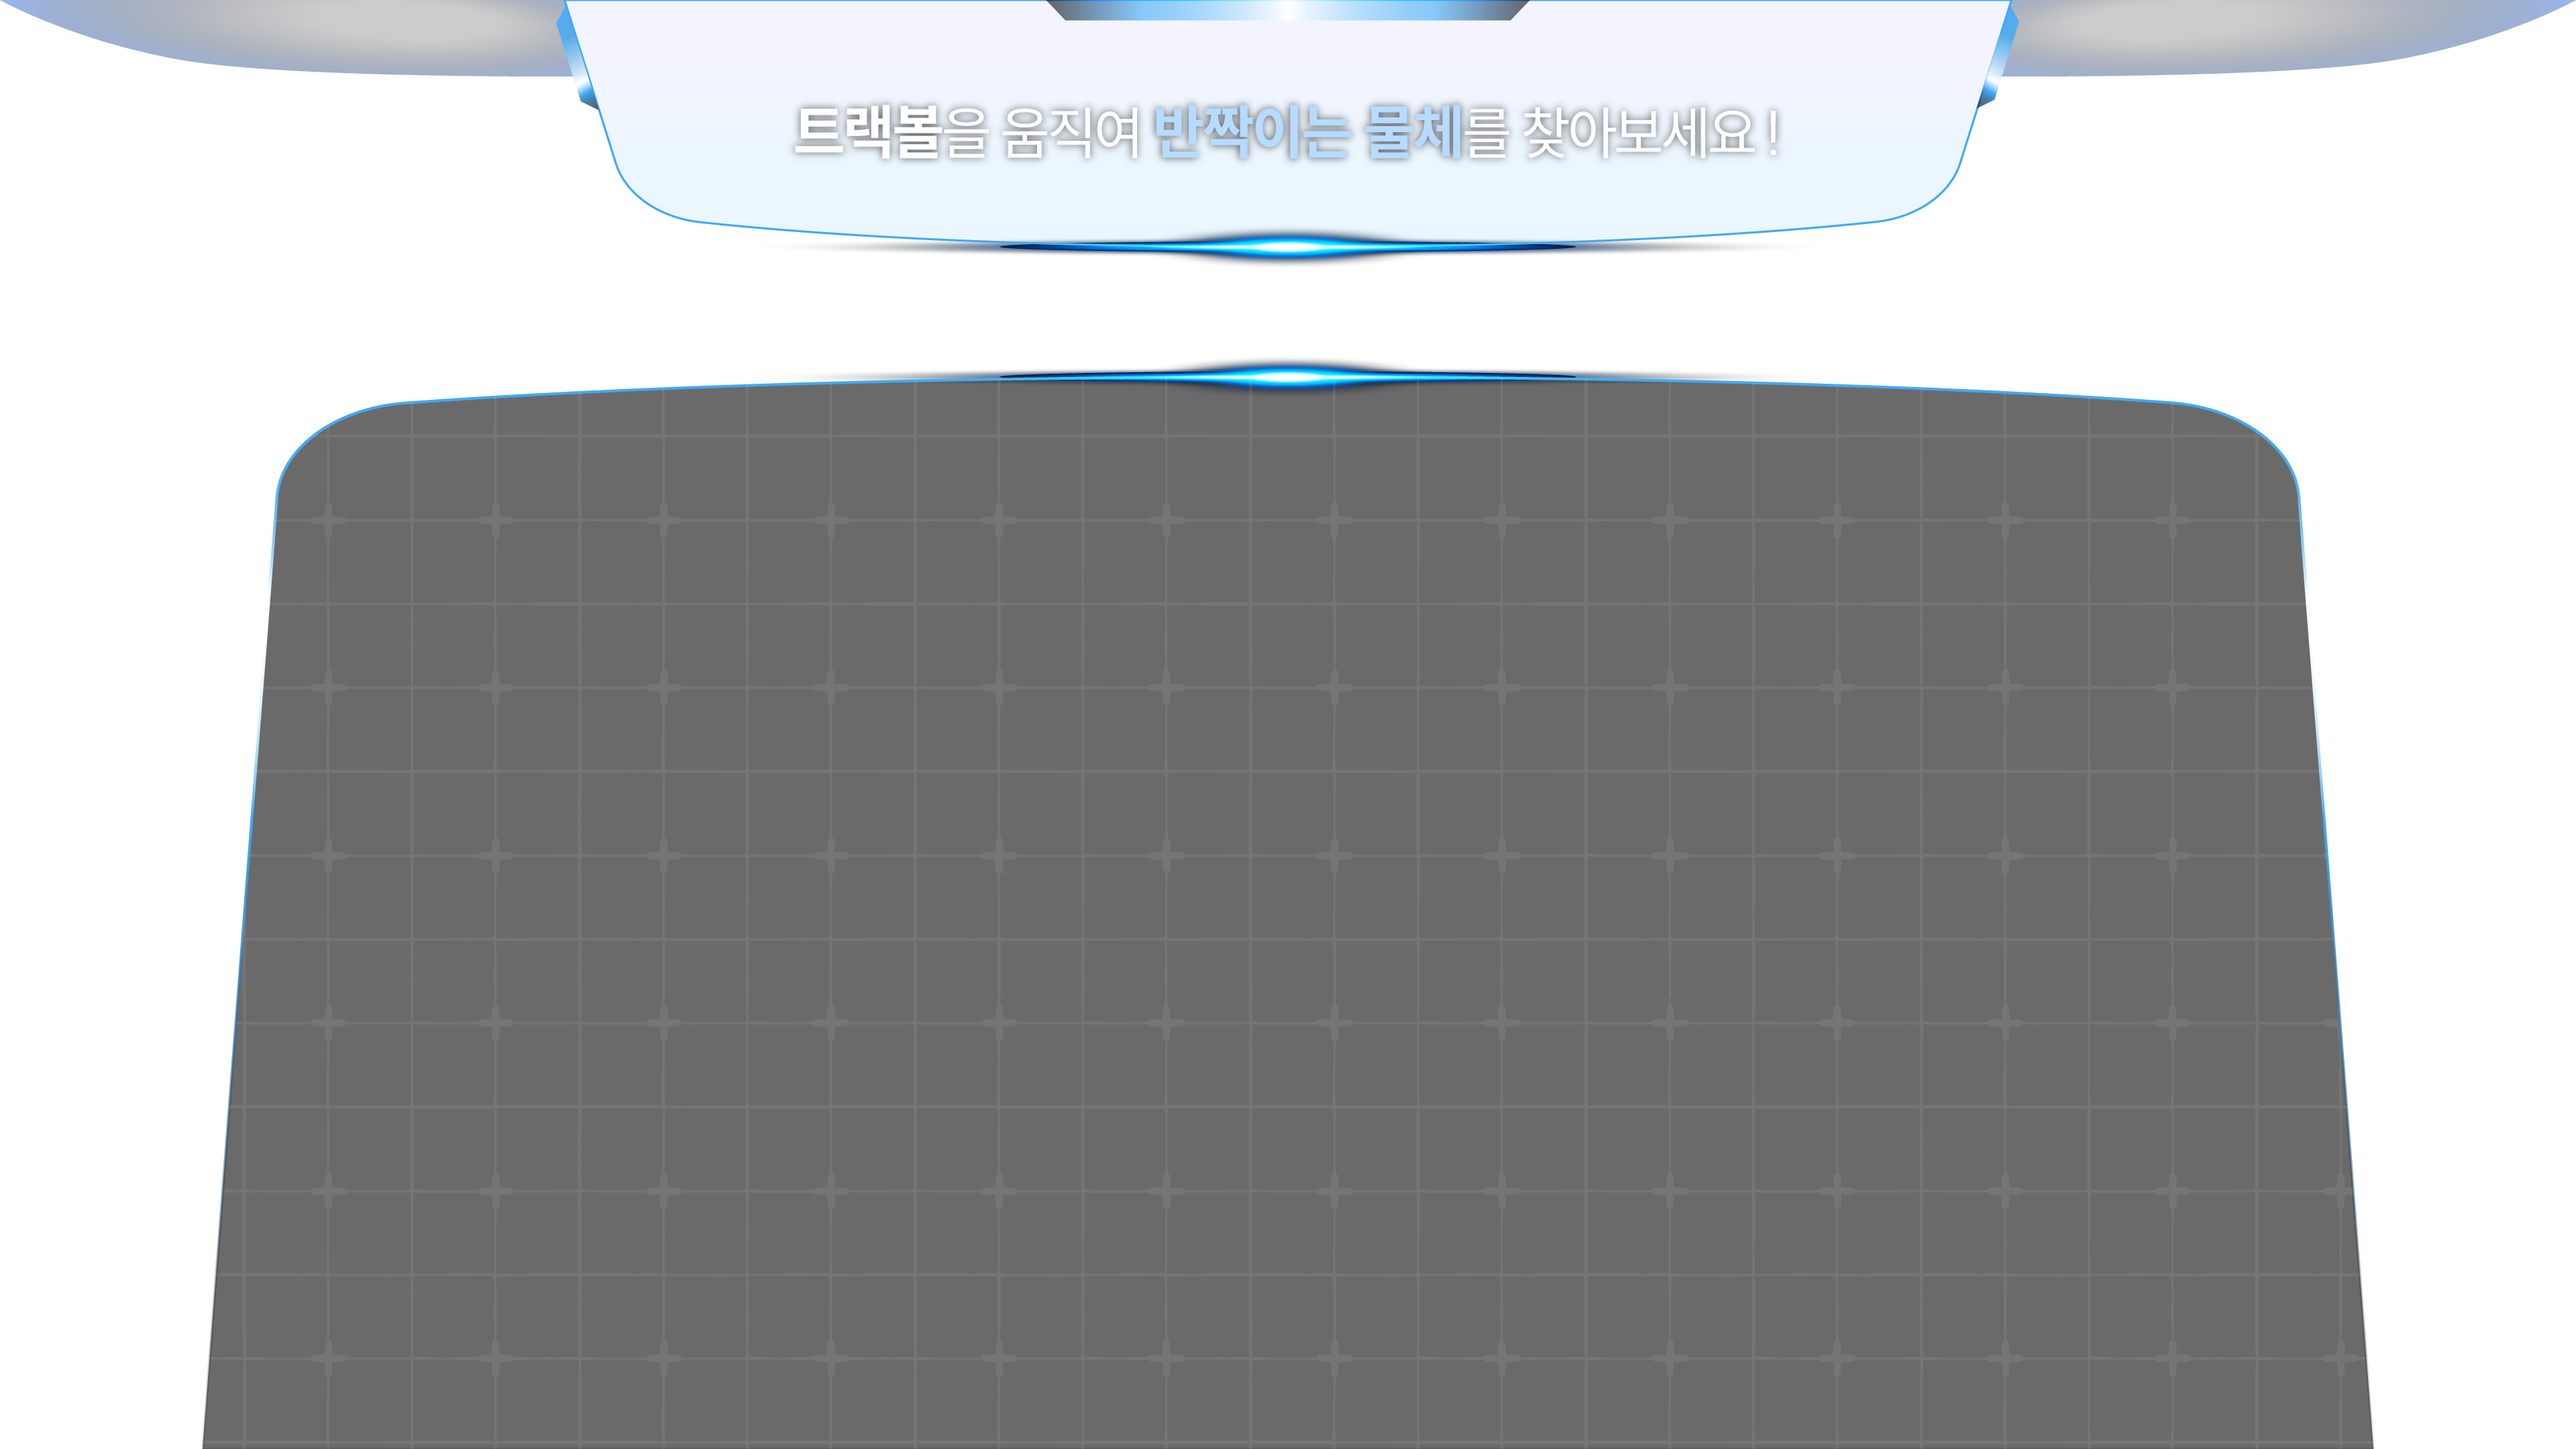
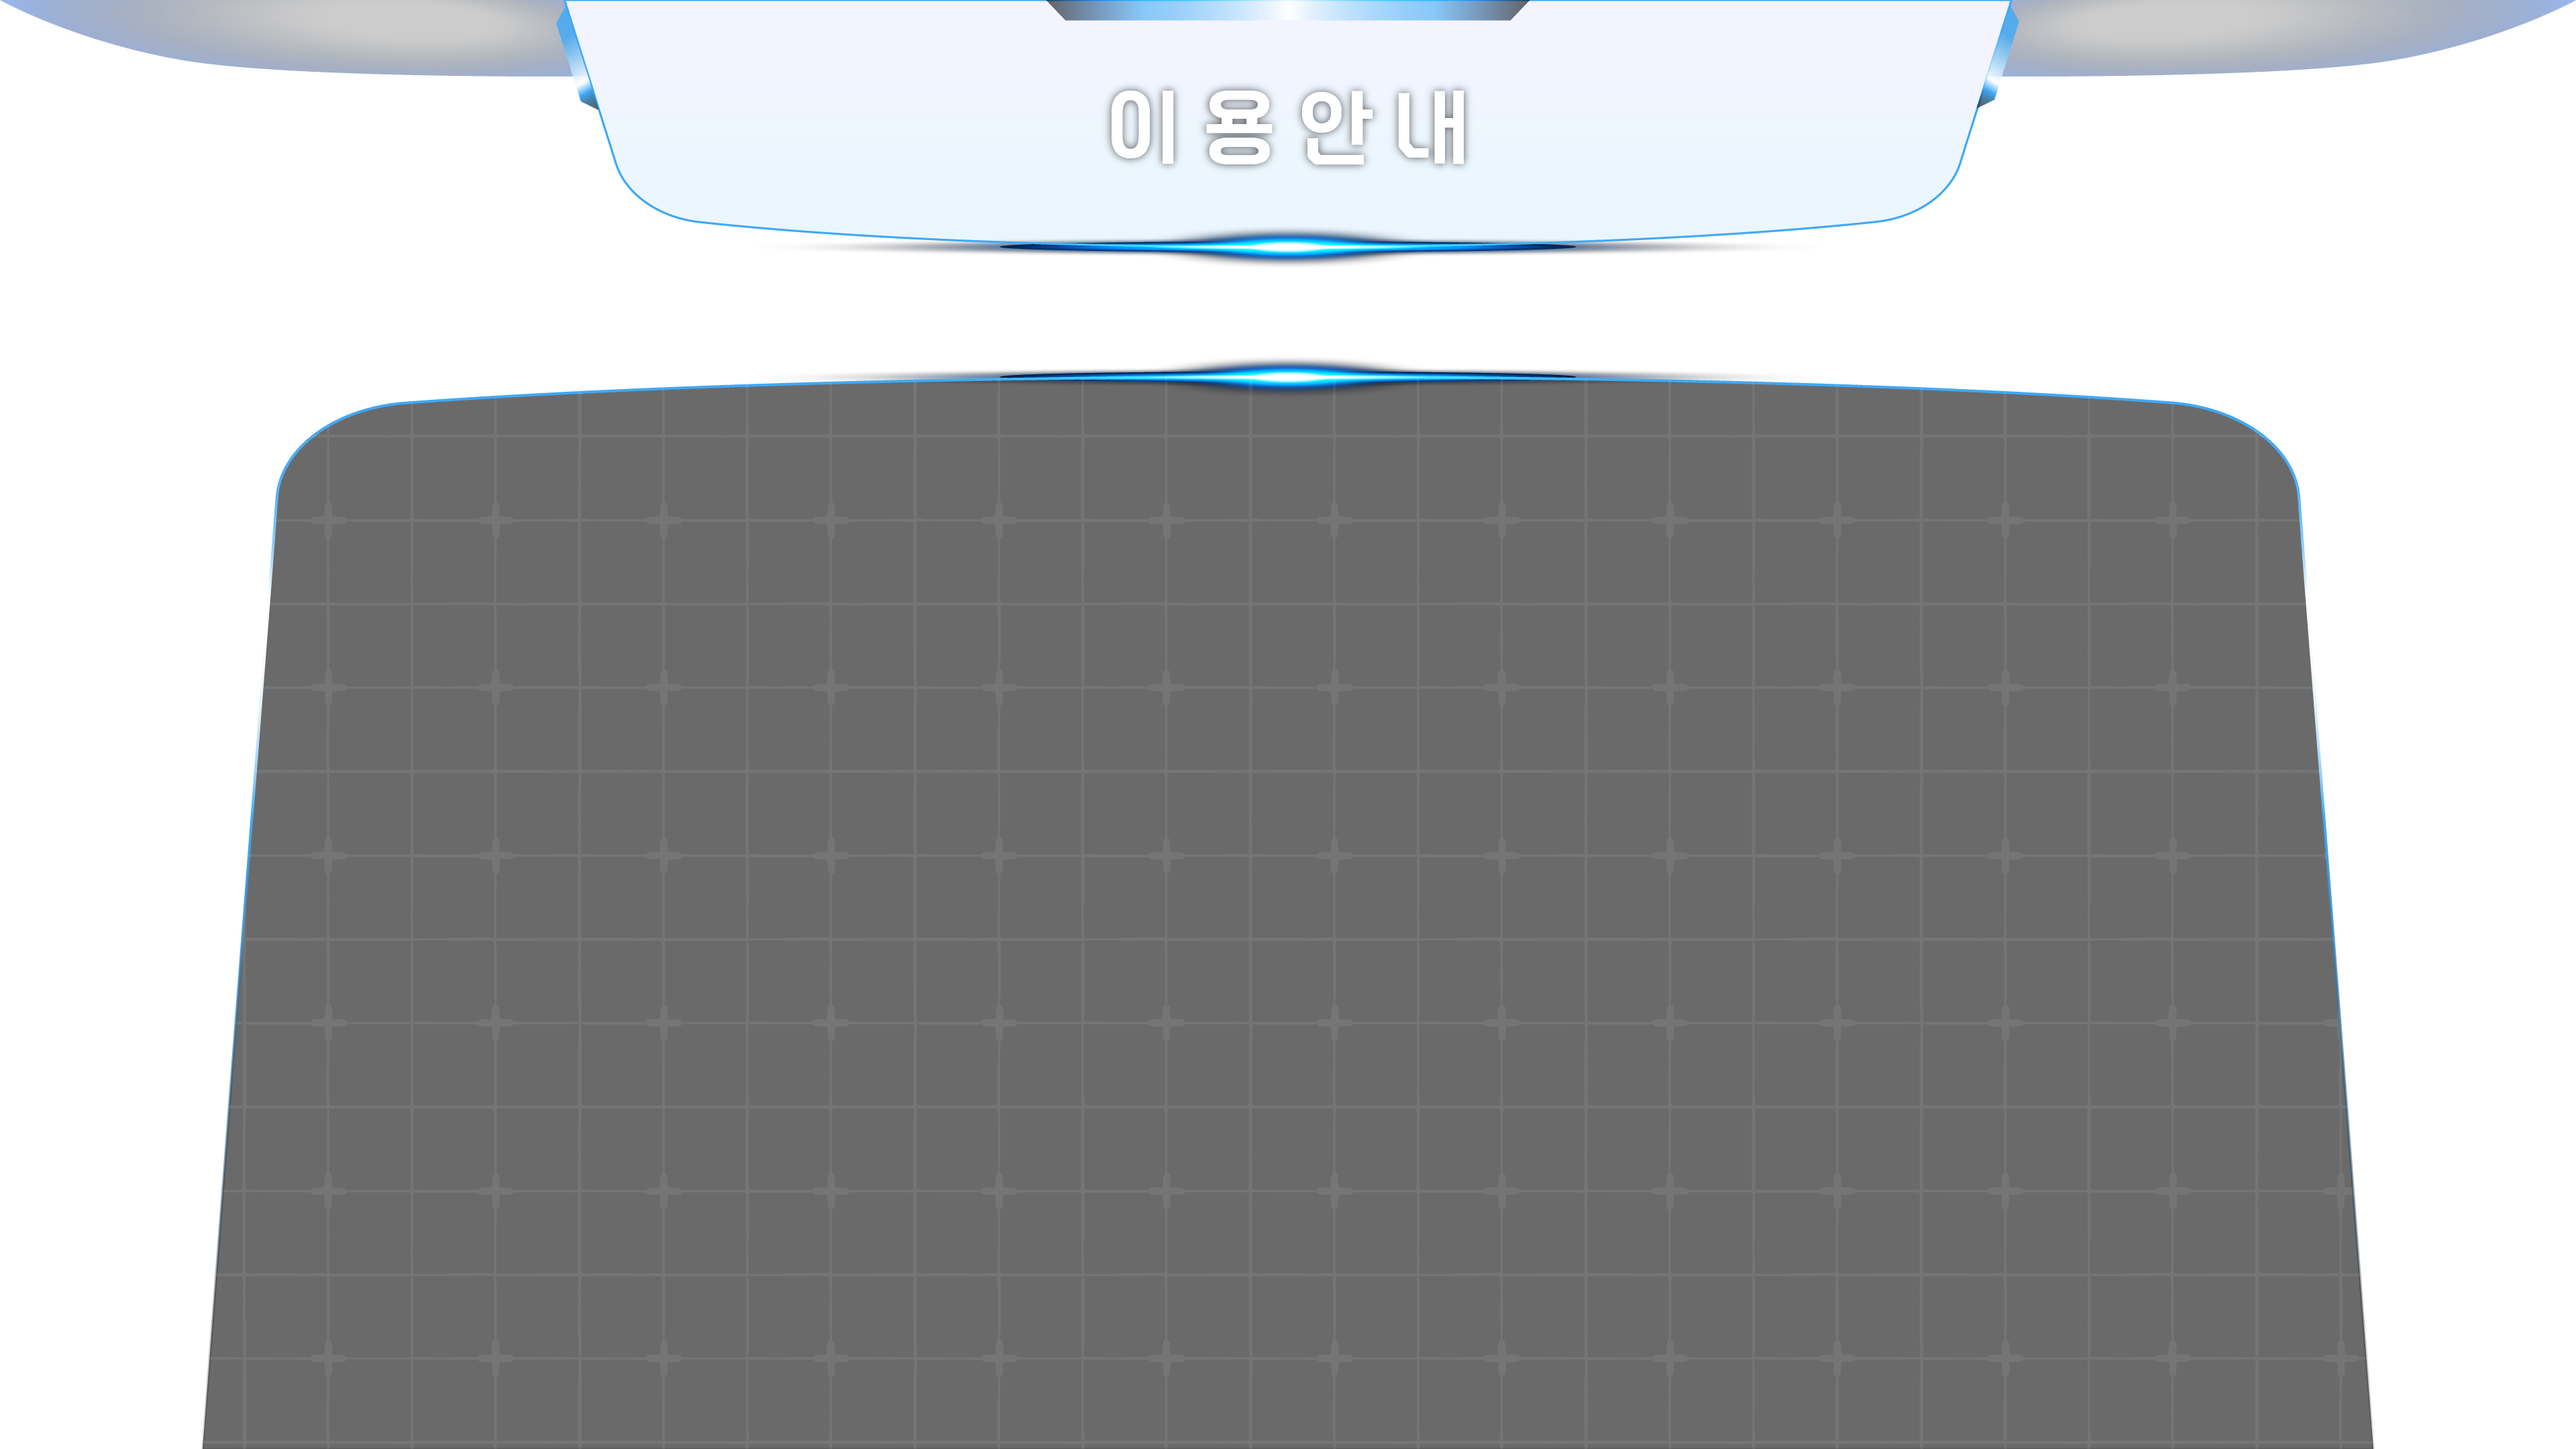
함체 설명 추가

Changed region(s): [[0.3125, 0.062, 0.6875, 0.1241]]

diff --git a/Assets/My/Scripts/0_Global/Pages/TutorialPage.cs b/Assets/My/Scripts/0_Global/Pages/TutorialPage.cs
@@ -13,6 +13,7 @@ public class TutorialSetting
     public VideoSetting mainBackground;
     public ImageSetting tutorial1;
     public ImageSetting tutorial2;
+    public ImageSetting tutorial3;
 
     public VideoSetting subBackground;
     public ImageSetting assistance2;
@@ -23,6 +24,7 @@ public class TutorialSetting
     public ImageSetting star3;
     public ImageSetting crosshair1;
 
+    public ImageSetting body;
     public ImageSetting sample;
     public ImageSetting frame;
 }
@@ -35,9 +37,11 @@ public class TutorialPage : BasePage<TutorialSetting>
 
     private GameObject imageTutorial1;
     private GameObject imageTutorial2;
+    private GameObject imageTutorial3;
 
     private GameObject imageAssistance1;
     private GameObject imageAssistance2;
+    private GameObject imageAssistance3;
 
     private GameObject star1;
     private GameObject star2;
@@ -47,69 +51,81 @@ public class TutorialPage : BasePage<TutorialSetting>
     private RectTransform crosshairRT;
     private RectTransform star2RT;
 
+    private GameObject body;
     private GameObject sample;
     private GameObject frame;
-
-    
 
     protected override void OnEnable()
     {   
         base.OnEnable();
-        if (imageTutorial1 && imageTutorial2 && imageAssistance1 && imageAssistance2)
+        if (imageTutorial2 && imageTutorial3 && imageAssistance2 && imageAssistance3)
         {
-            crosshair1.transform.SetParent(imageTutorial1.transform);
+            crosshair1.transform.SetParent(imageTutorial2.transform);
             
-            TutorialSequenceAsync(imageTutorial1, imageTutorial2, imageAssistance1, imageAssistance2, cancelToken.Token).Forget();
+            TutorialSequenceAsync(imageTutorial1, imageTutorial2, imageTutorial3,
+                                  imageAssistance2, imageAssistance3, cancelToken.Token).Forget();
         }
     }
 
     protected override void OnDisable()
     {
         base.OnDisable();
-
+        
         imageTutorial1.SetActive(true);
         imageTutorial2.SetActive(false);
+        imageTutorial3.SetActive(false);
     }
 
     protected override async UniTask BuildContentAsync(CancellationToken token)
     {
         imageTutorial1 = await UICreator.Instance.CreateSingleImageAsync(setting.tutorial1, mainCanvasObj, token);
         imageTutorial2 = await UICreator.Instance.CreateSingleImageAsync(setting.tutorial2, mainCanvasObj, token);
+        imageTutorial3 = await UICreator.Instance.CreateSingleImageAsync(setting.tutorial3, mainCanvasObj, token);
         imageTutorial2.SetActive(false);
+        imageTutorial3.SetActive(false);
 
-        imageAssistance1 = await UICreator.Instance.CreateSingleImageAsync(setting.assistance2, subCanvasObj, token);
-        imageAssistance2 = await UICreator.Instance.CreateSingleImageAsync(setting.assistance3, subCanvasObj, token);
-        imageAssistance2.SetActive(false);
+        imageAssistance2 = await UICreator.Instance.CreateSingleImageAsync(setting.assistance2, subCanvasObj, token);
+        imageAssistance3 = await UICreator.Instance.CreateSingleImageAsync(setting.assistance3, subCanvasObj, token);
+        imageAssistance3.SetActive(false);
 
-        star1 = await UICreator.Instance.CreateSingleStarAsync(setting.star1, imageTutorial1, token);
-        star2 = await UICreator.Instance.CreateSingleStarAsync(setting.star2, imageTutorial1, token);
-        star3 = await UICreator.Instance.CreateSingleStarAsync(setting.star3, imageTutorial2, token);
-        crosshair1 = await UICreator.Instance.CreateSingleImageAsync(setting.crosshair1, imageTutorial1,  token);    
+        star1 = await UICreator.Instance.CreateSingleStarAsync(setting.star1, imageTutorial2, token);
+        star2 = await UICreator.Instance.CreateSingleStarAsync(setting.star2, imageTutorial2, token);
+        star3 = await UICreator.Instance.CreateSingleStarAsync(setting.star3, imageTutorial3, token);
+        crosshair1 = await UICreator.Instance.CreateSingleImageAsync(setting.crosshair1, imageTutorial2,  token);    
         crosshair1.AddComponent<TutorialCrosshair>();
         
         crosshair1.TryGetComponent(out crosshairRT);
         star2.TryGetComponent(out star2RT);
         
-        sample = await UICreator.Instance.CreateSingleImageAsync(setting.sample, imageTutorial2, token);
+        body = await UICreator.Instance.CreateSingleImageAsync(setting.body, imageTutorial1, token);
+        sample = await UICreator.Instance.CreateSingleImageAsync(setting.sample, imageTutorial3, token);
         frame = await UICreator.Instance.CreateSingleImageAsync(setting.frame, sample, token);
         sample.transform.localScale = new Vector3(1, 0, 1);
 
         isCreated = true;
         
-        TutorialSequenceAsync(imageTutorial1, imageTutorial2, imageAssistance1, imageAssistance2, token).Forget();
+        TutorialSequenceAsync(imageTutorial1, imageTutorial2, imageTutorial3,
+                              imageAssistance2, imageAssistance3, token).Forget();
     }
 
-    private async UniTask TutorialSequenceAsync(GameObject tuto1, GameObject tuto2, GameObject assist1, GameObject assist2, CancellationToken token)
+    private async UniTask TutorialSequenceAsync(GameObject tutorial1, GameObject tutorial2, GameObject tutorial3,
+                                                GameObject assist1, GameObject assist2, CancellationToken token)
     {   
-        CrosshairMove(crosshairRT, crosshairRT.anchoredPosition, star2RT.anchoredPosition, 2).Forget();
         int waitMs = Mathf.RoundToInt(setting.tutorialDisplayTime * 1000f);
+        tutorial1.SetActive(true);
         await UniTask.Delay(waitMs, DelayType.DeltaTime, PlayerLoopTiming.Update, token);
         
-        crosshair1.transform.SetParent(tuto2.transform);
+        tutorial1.SetActive(false);
+        tutorial2.SetActive(true);
+        CrosshairMove(crosshairRT, crosshairRT.anchoredPosition, star2RT.anchoredPosition, 2).Forget();
+        
+        await UniTask.Delay(waitMs, DelayType.DeltaTime, PlayerLoopTiming.Update, token);
+        
+        crosshair1.transform.SetParent(tutorial3.transform);
         crosshair1.transform.position = star3.transform.position;
         
-        tuto1.SetActive(false);
-        tuto2.SetActive(true);
+        tutorial2.SetActive(false);
+        tutorial3.SetActive(true);
 
         assist1.SetActive(false);
         assist2.SetActive(true);
